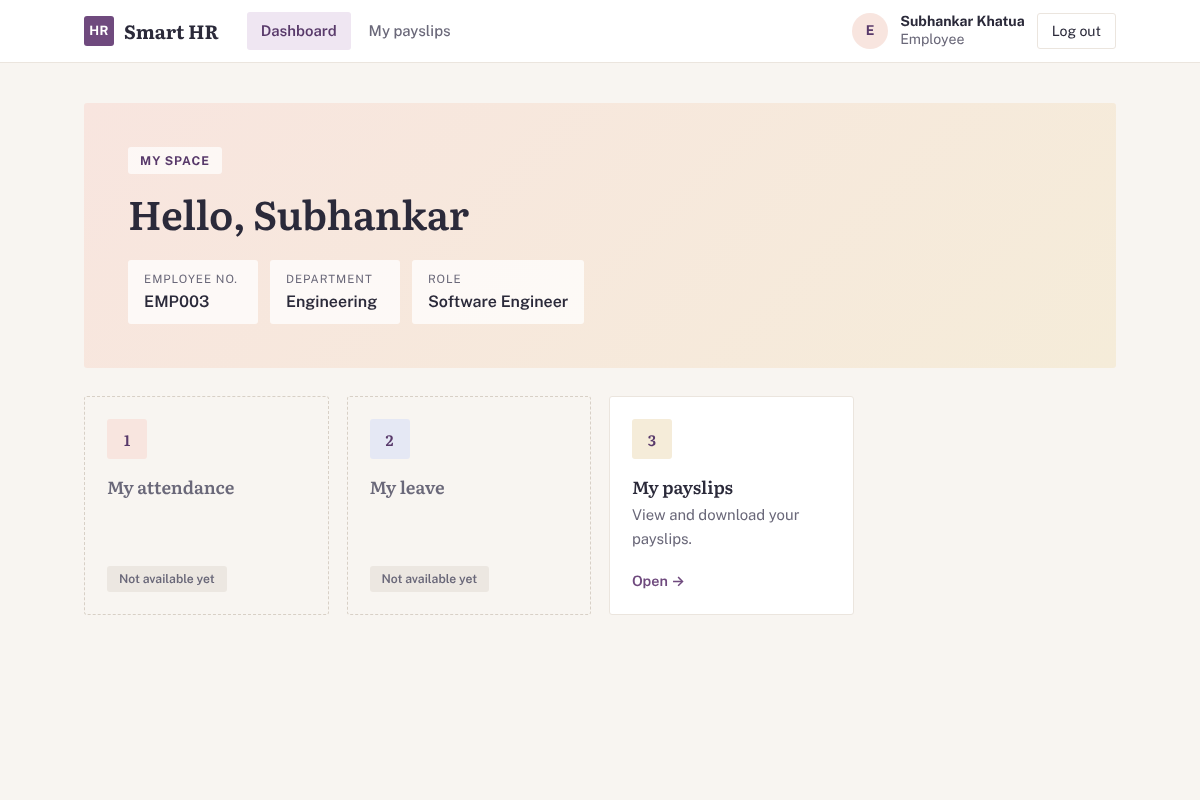
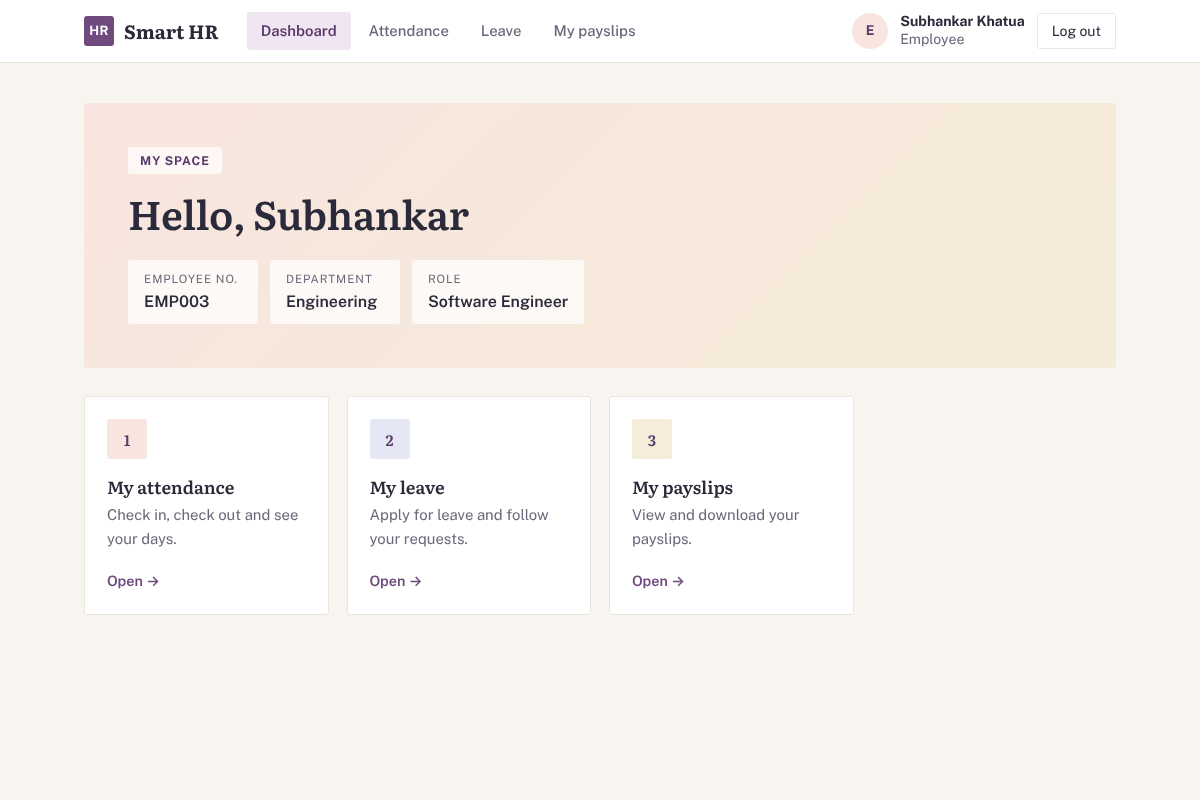
docs: document the attendance, leave and directory pages

diff --git a/README.md b/README.md
@@ -68,6 +68,25 @@ leave requests and payroll, with separate Admin, HR and Employee dashboards.
 * Tests for payroll rules, payslips, access restrictions, notifications and the
   pages (all tests pass; see Run the tests).
 
+### Web pages for attendance, leave and the employee directory
+
+Weeks 2 and 3 built attendance and leave as an API. These pages put screens on
+top of the same code, so the dashboards no longer show placeholder cards for them.
+
+* **Attendance** (`/attendance/`): check in and check out, and your last 31 days.
+  Admin/HR also get **Team attendance** (`/attendance/team/`): who is in today and
+  monthly totals per employee.
+* **Leave** (`/leave/`): apply for leave, follow your requests and cancel one.
+  Admin/HR get **Review requests** (`/leave/review/`) to approve or reject with a
+  note; the employee is e-mailed. Nobody can decide their own request.
+* **Employees** (`/employees/`, Admin/HR only): search and filter the directory.
+  Personal details (phone, birth date, address) are never shown on this page.
+* The pages call the same services and validation as the API, so the rules
+  (one check-in per day, the leave state machine, no self-approval) are written
+  once. The leave permission rules now live in
+  `apps/leave_management/services.py` and are used by both the API and the pages.
+* The seed script adds a few days of attendance and three sample leave requests.
+
 ## Screenshots
 
 | Login | Admin dashboard |
@@ -85,6 +104,14 @@ leave requests and payroll, with separate Admin, HR and Employee dashboards.
 | My payslips (each employee sees only their own) | Sample payslip PDF (synthetic data) |
 |---|---|
 | ![My payslips](docs/screenshots/07-my-payslips.png) | ![Sample payslip PDF](docs/screenshots/08-payslip-pdf.png) |
+
+| Attendance (check in and out) | Leave request form and my requests |
+|---|---|
+| ![Attendance](docs/screenshots/09-attendance.png) | ![Leave request](docs/screenshots/10-leave-request.png) |
+
+| Leave review (Admin and HR) |
+|---|
+| ![Leave review](docs/screenshots/11-leave-review.png) |
 
 A step-by-step walkthrough for showing the app is in [docs/demo_script.md](docs/demo_script.md).
 
@@ -210,6 +237,11 @@ Open http://127.0.0.1:8000/ and log in. Each role lands on its own dashboard:
 | `/dashboard/employee/` | yes | yes | yes |
 | `/payroll/` and `/payroll/periods/<id>/` | yes | yes | no |
 | `/payroll/my/` | own | own | own |
+| `/attendance/` (check in / out) | own | own | own |
+| `/attendance/team/` | yes | yes | no |
+| `/leave/` (apply, cancel) | own | own | own |
+| `/leave/review/` (approve / reject) | yes | yes | no |
+| `/employees/` (directory) | yes | yes | no |
 | `/payroll/payslips/<id>/download/` | any | any | own |
 | `/api/accounts/me/` | yes | yes | yes |
 | `/api/employees/employees/` | full | full | directory only |
@@ -265,13 +297,12 @@ requirements.txt         Python dependencies
 
 ## Known limitations
 
-* The Admin, HR and Employee dashboards still show placeholder cards for features planned for Week 4.
+* The Admin dashboard still shows a placeholder card for Reports and charts (Week 4).
+* HR cannot yet correct an attendance record (the `is_corrected` flag exists, but there is no screen or API for it).
 * Charts and CSV/Excel/PDF report exports are not built yet (Week 4).
 * Payroll is a full month per employee: there is no proration for part-month joiners, no tax slabs and no overtime.
 * E-mails are sent straight away, not through a background queue (Celery/Redis); failures are logged and can be re-tried by regenerating.
 * Salary components, periods and records are managed through the pages and API; there is no bulk import.
-* Attendance and leave are exposed through the API only; web screens for them
-  are planned for a later sprint.
 * Tests run on whichever database `.env` selects; the full suite passes on SQLite.
 * KPI definitions and deployment notes are added in Week 4.
 

diff --git a/docs/demo_script.md b/docs/demo_script.md
@@ -61,7 +61,18 @@ Workflows to show with the API (or Django admin for the data):
 2. Log in as `admin_demo` and open http://127.0.0.1:8000/admin/ and then **Audit events**.
 3. You see a login event for the successful logins, and an event with `{"result": "failed", "username": "employee_demo"}` for the failed attempt. The password is never stored.
 
-## 5. Payroll, payslips and e-mail (Week 3)
+## 5. Attendance, leave and the employee directory
+
+1. Log in as `employee_demo`. On the dashboard, **My attendance** and **My leave** are live cards. Open **Attendance** and click **Check in**. The button changes to **Check out**. Try Check in again later: the rule "one check-in per day" is enforced.
+2. Open **Leave**, choose a leave type and dates, and click **Submit request**. Try an end date before the start date: you get a clear message and nothing is saved. Your requests are listed below, and a pending one can be cancelled.
+3. Log in as `hr_demo` and open **Leave** then **Review requests**. Approve one request with a note and reject another. In the terminal running the server you can see the e-mail sent to the employee.
+4. Open **Attendance** then **Team attendance**: who is in today, and the monthly totals.
+5. Open **Employees**: search by name or number and filter by department. Phone numbers and addresses are not shown on this page.
+6. Back on `hr_demo`'s review page, find a request that belongs to `hr_demo` (apply for one first): it says someone else must decide it. Nobody can approve their own request.
+
+What to point out: the pages use the same rules as the API (one check-in a day, the leave state machine, no self-approval), so there is one set of rules, tested once.
+
+## 6. Payroll, payslips and e-mail (Week 3)
 
 1. Log in as `hr_demo` and click **Payroll**. You see the August period (closed) and the September period (open).
 2. Open September. Each employee has gross pay, deductions and net pay. Click **Mark paid** on one row, then try **Close period**: it refuses while another record is still pending.
@@ -72,13 +83,13 @@ Workflows to show with the API (or Django admin for the data):
 
 What to point out: pay is calculated from salary components (a percentage of Basic or a fixed amount), paid records are final, every sensitive change is audited, and payslip e-mails contain no salary figures.
 
-## 6. Tests
+## 7. Tests
 
 ```
 python -m pytest
 ```
 
-All tests pass (123 at the time of writing). They cover authentication, the role matrix, model rules, the Week 2 workflows, login auditing, payroll rules, payslip generation and download access, e-mail notifications and the payroll pages.
+All tests pass (164 at the time of writing). They cover authentication, the role matrix, model rules, the Week 2 workflows, login auditing, payroll rules, payslip generation and download access, e-mail notifications, and the payroll, attendance, leave and employee pages.
 
 ## Notes for questions
 

diff --git a/docs/role_permission_matrix.md b/docs/role_permission_matrix.md
@@ -21,10 +21,12 @@ already have automated tests in `tests/`.
 | Employee and department management | Yes | Yes | No | 2 | |
 | View own profile | Own | Own | Own | 2 | |
 | View other employees' personal details | Yes | Yes | No | 2 | Phone, date of birth, address |
-| Record own attendance | Own | Own | Own | 2 | Needs an employee profile |
-| View / correct anyone's attendance | Yes | Yes | No | 2 | Corrections are audited |
-| Apply for / cancel own leave | Own | Own | Own | 2 | Needs an employee profile |
-| Approve / reject leave | Yes | Yes | No | 2 | Proposed: never your own request |
+| Record own attendance | Own | Own | Own | 2 | Needs an employee profile; page `/attendance/` and API; tested |
+| View anyone's attendance | Yes | Yes | No | 2 | Page `/attendance/team/` and API; tested |
+| Correct anyone's attendance | Yes | Yes | No | 2 | Planned; not built yet |
+| Apply for / cancel own leave | Own | Own | Own | 2 | Needs an employee profile; page `/leave/` and API; tested |
+| Approve / reject leave | Yes | Yes | No | 2 | Never your own request; page `/leave/review/` and API; tested |
+| Employee directory page `/employees/` | Yes | Yes | No | 2 | No personal details on the page; tested |
 | Payroll periods and salary components | Yes | Yes | No | 3 | Enforced and tested; salary changes are audited |
 | Manage payroll records (generate, mark paid, close period) | Yes | Yes | No | 3 | Enforced and tested; status changes are audited |
 | Download payslip | All | All | Own | 3 | Permission-checked view, not a static URL; other people's payslips return 404; tested |
